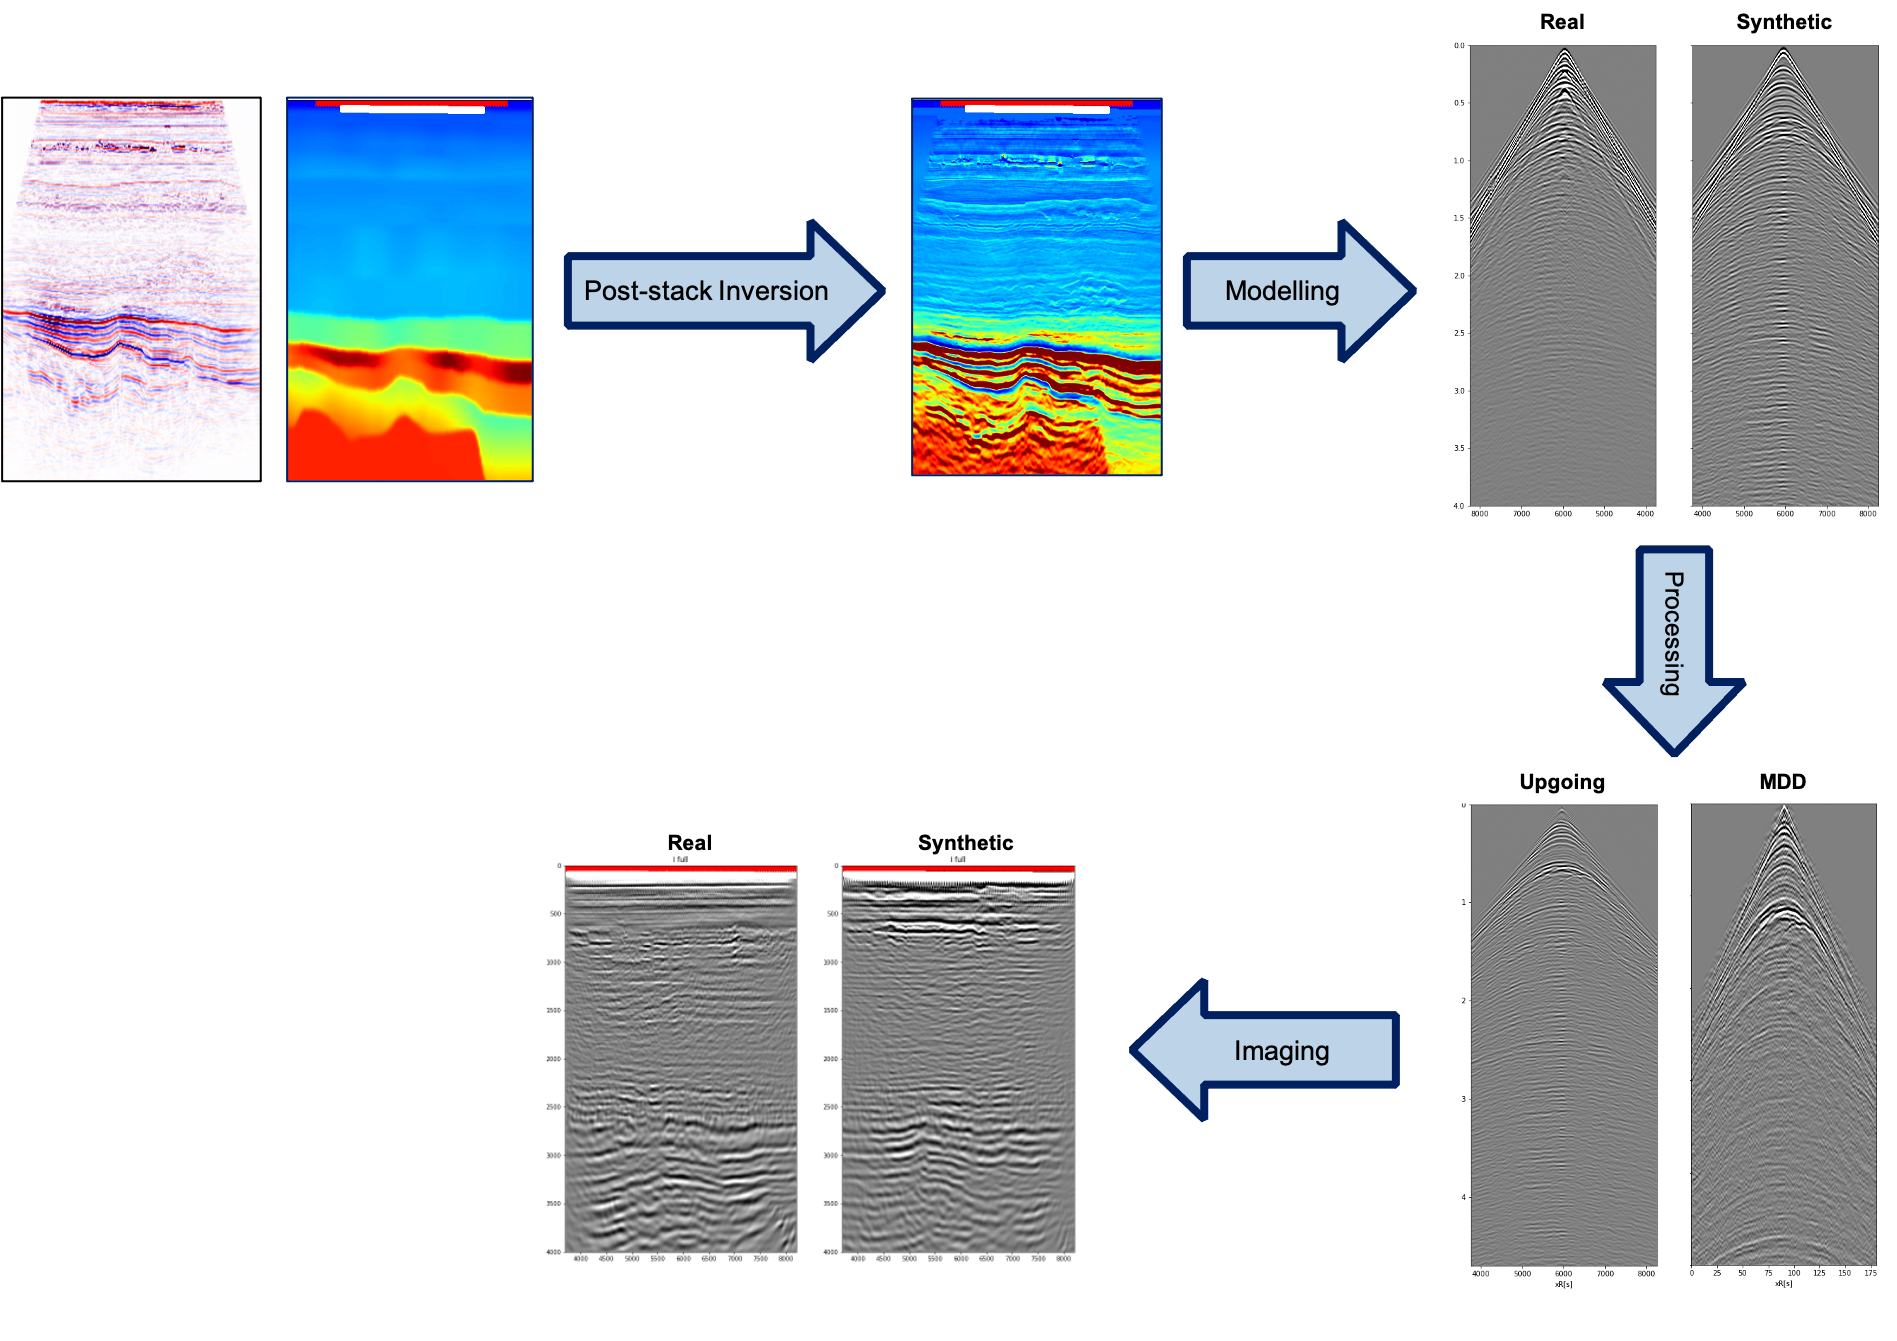
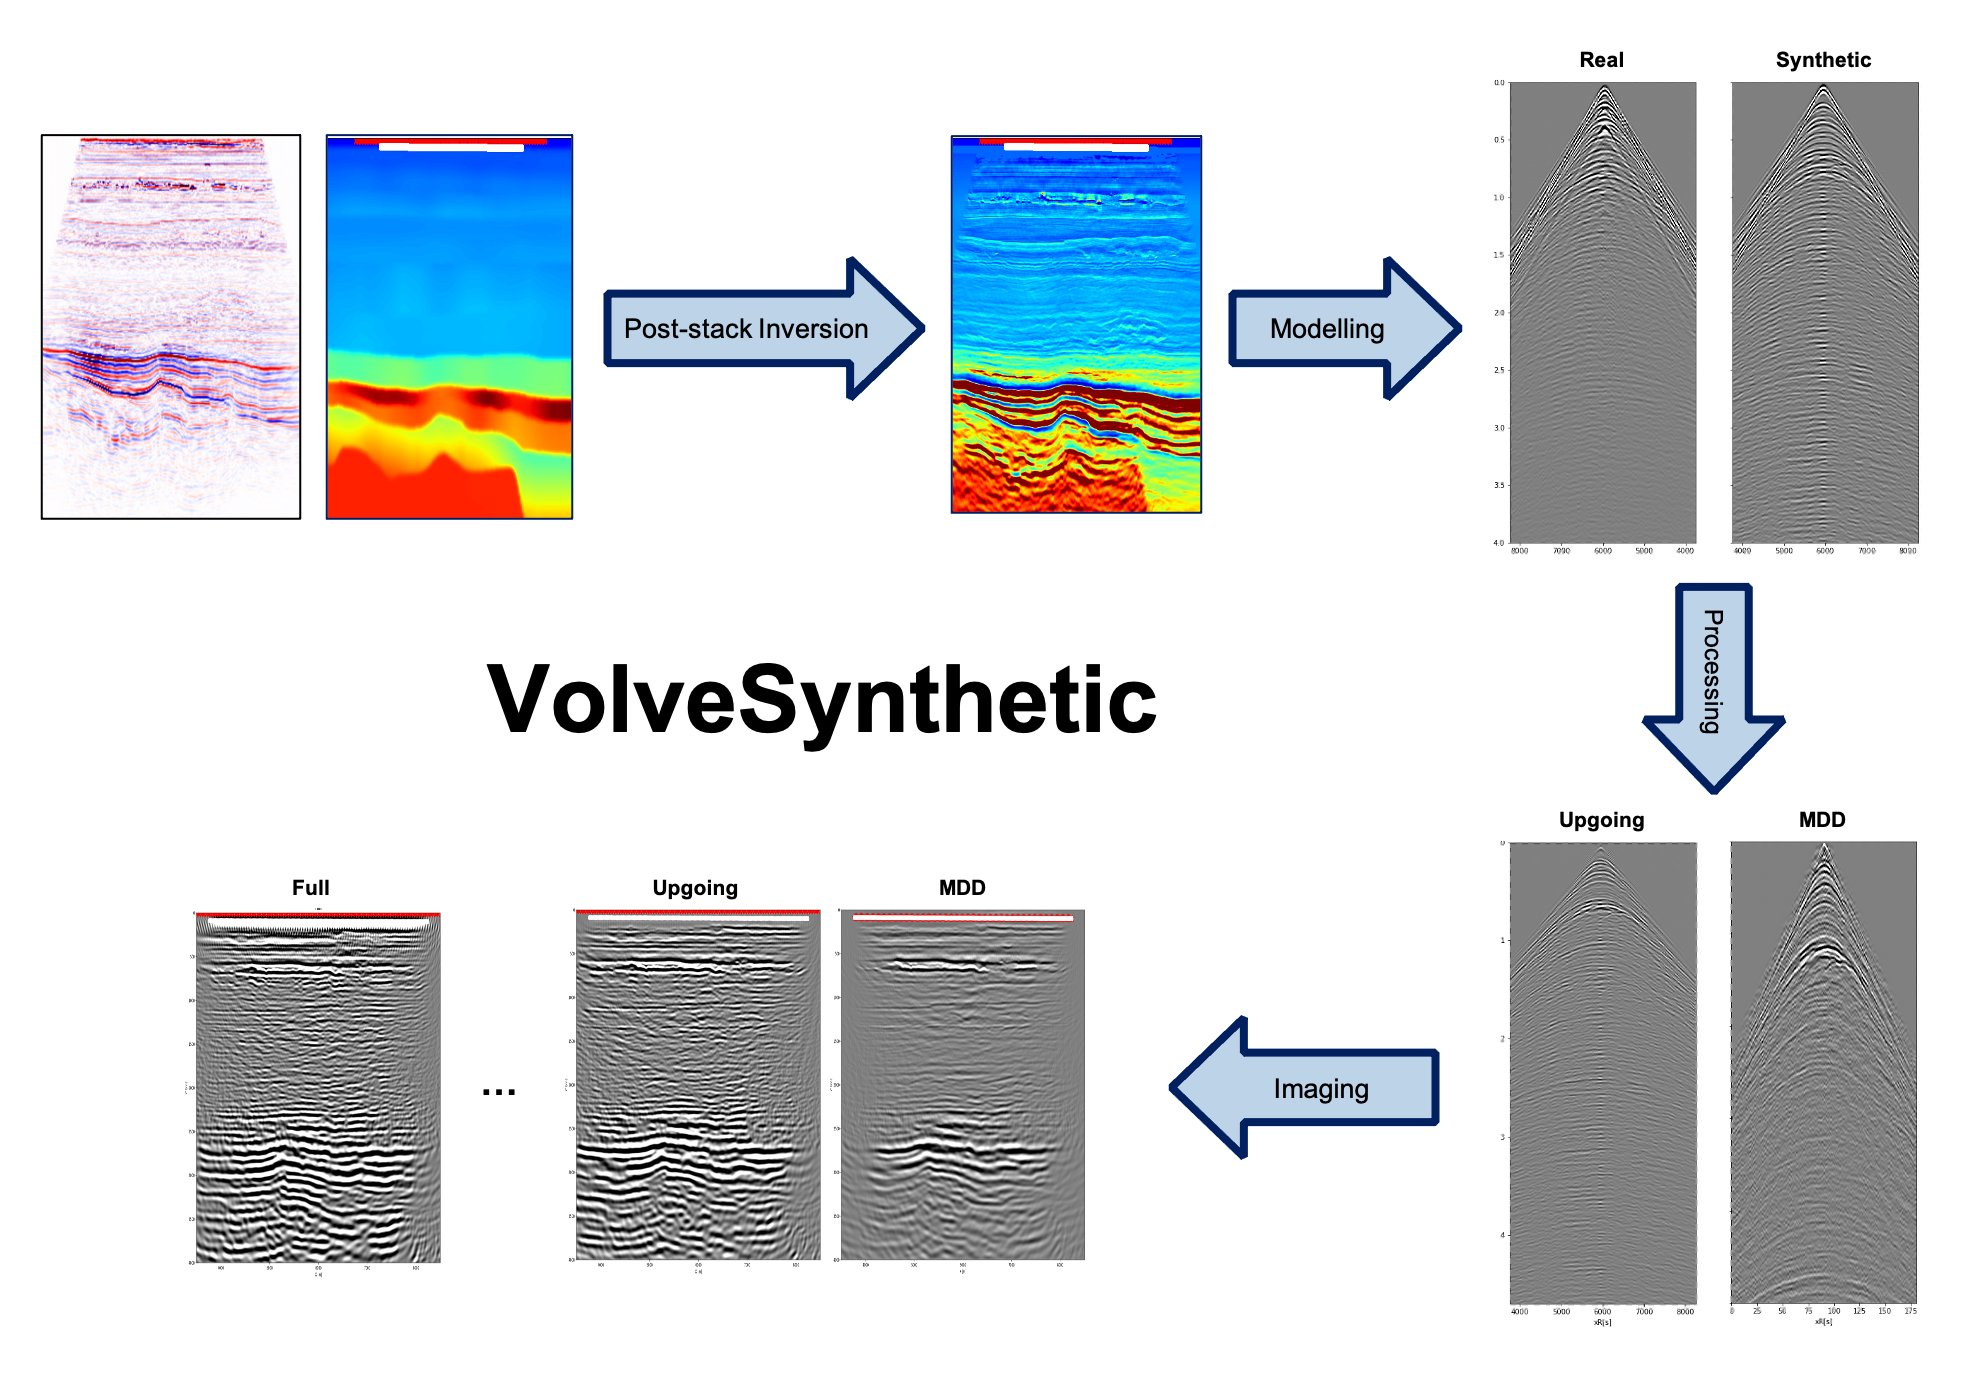
Changed workflow image

Changed region(s): [[0.0, 0.0, 0.9953, 0.9478], [0.0933, 0.6421, 0.2488, 0.9172], [0.2488, 0.4586, 0.5909, 0.5503]]

diff --git a/README.md b/README.md
@@ -1,7 +1,4 @@
-# VolveSynthetic
-
 ![VolveSynthetic](https://github.com/DIG-Kaust/VolveSynthetic/blob/main/Figures/workflow.png)
-
 
 This repository contains a set of workflows used to generate a Volve-alike synthetic dataset for 
 testing of seismic processing and imaging algorithms.
